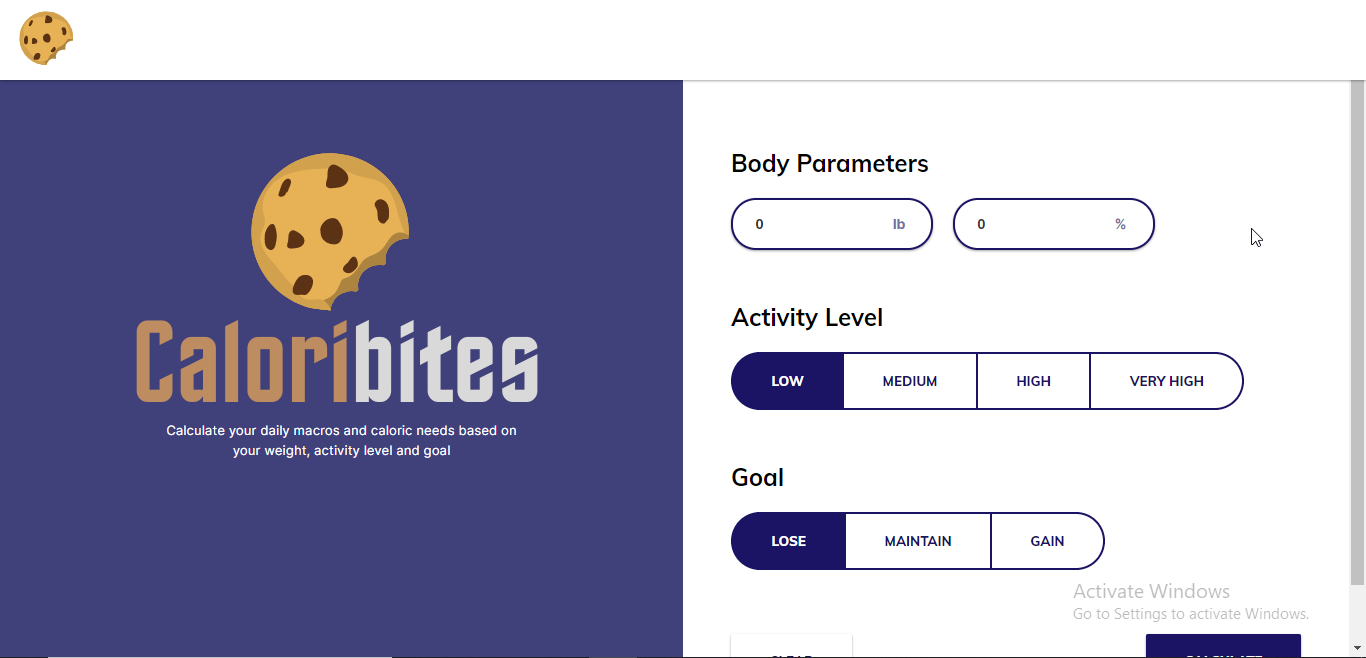
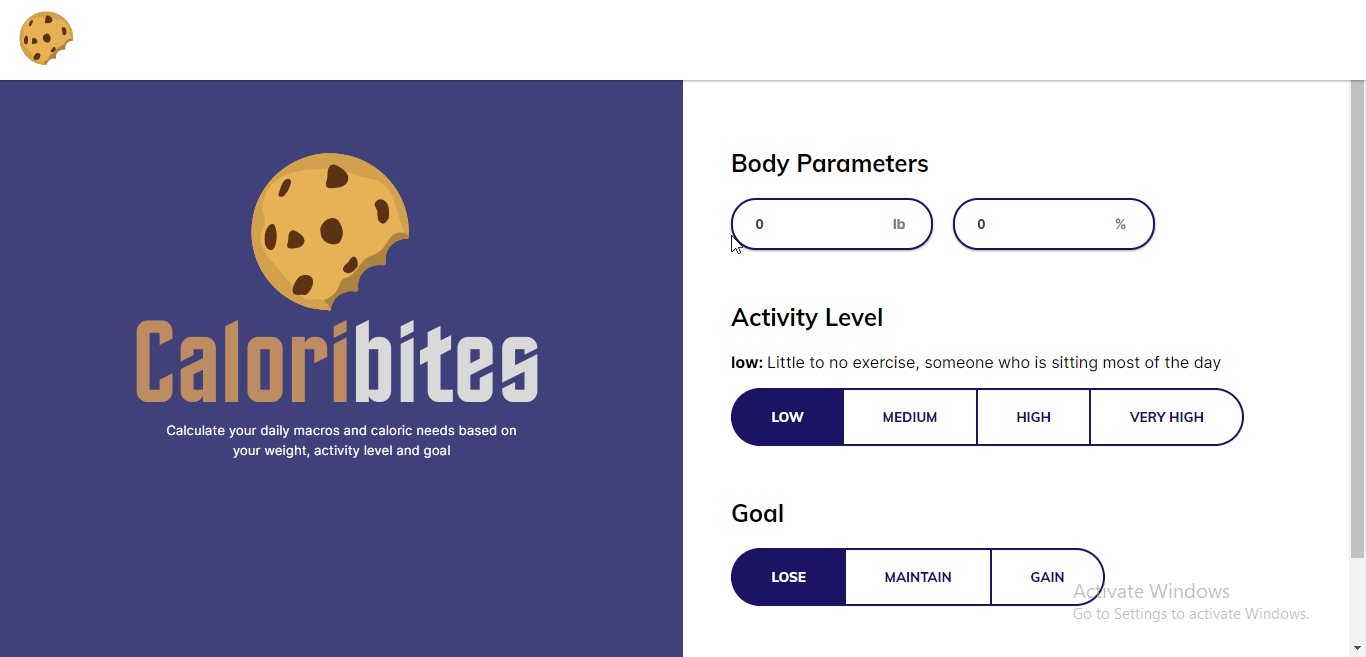
:sparkles: polish

diff --git a/src/App.js b/src/App.js
@@ -108,6 +108,17 @@ export default function App() {
         setTotal(0)
     }
 
+    function activityLevelDescription() {
+        const description = {
+            low: "Little to no exercise, someone who is sitting most of the day",
+            medium: "Moderate exercise, someone who is active",
+            high: "someone who is highly active, exercises 4 to 5 times a week",
+            "very high": "someone who is super active, spends most of the day walking"
+        }
+
+        return description[activity]
+    }
+
     return (
         <div id="main-container">
             <nav>
@@ -162,6 +173,10 @@ export default function App() {
                         </div>
                         <div className="form-section">
                             <h2>Activity Level</h2>
+                            <p className="activity-level-description">
+                                <strong>{activity}:   </strong>
+                                {activityLevelDescription()}
+                            </p>
                             <Select vvalue={activity} onChange={value => setActivity(value)}>
                                 {["low", "medium", "high", "very high"]}
                             </Select>

diff --git a/README.md b/README.md
@@ -19,5 +19,6 @@ fork the project then:
 ## screenshots
 
 ![screenshot1](./stock/screenshot1.png)
+\
+\
 ![screenshot2](./stock/screenshot2.png)
-![screenshot2](./stock/screenshot3.png)
